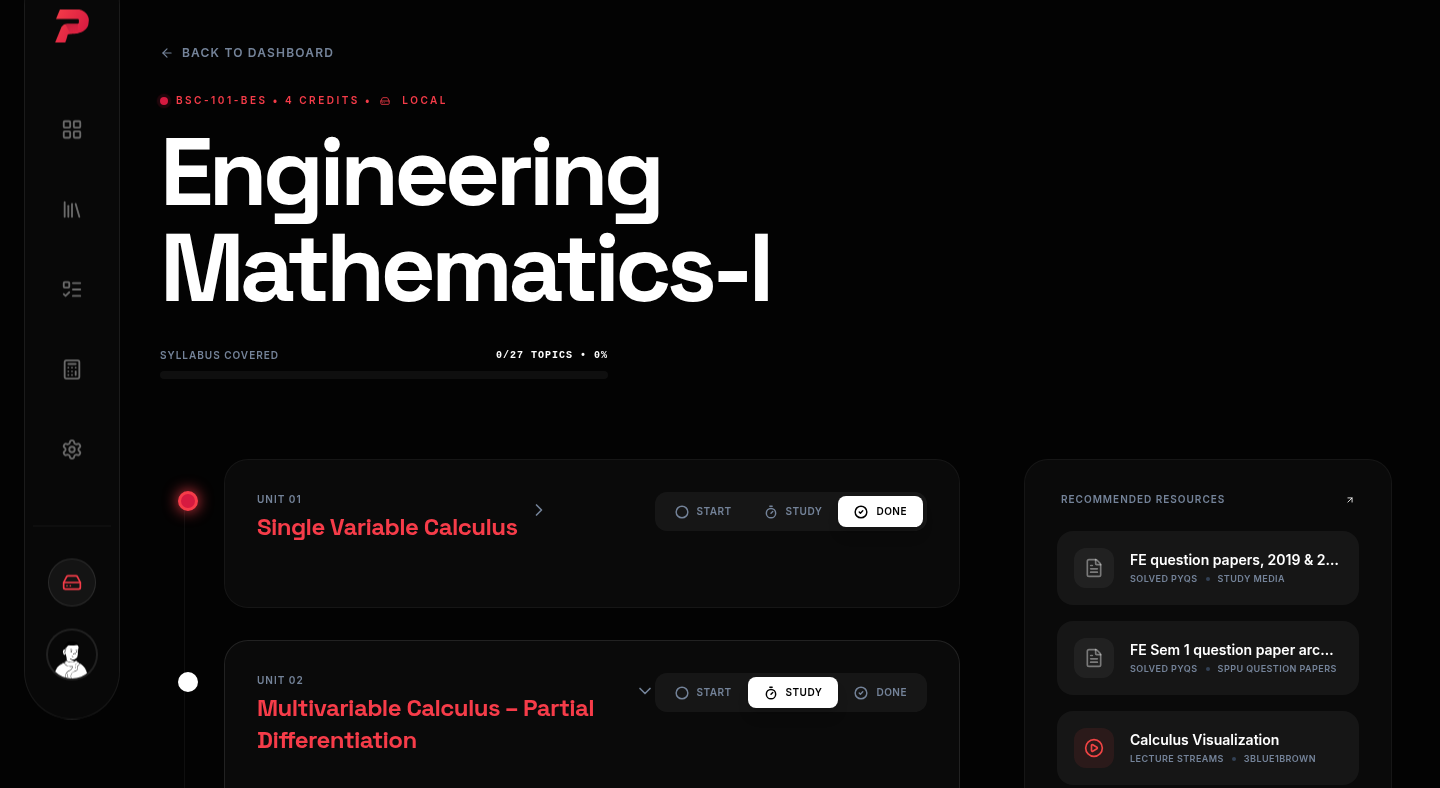
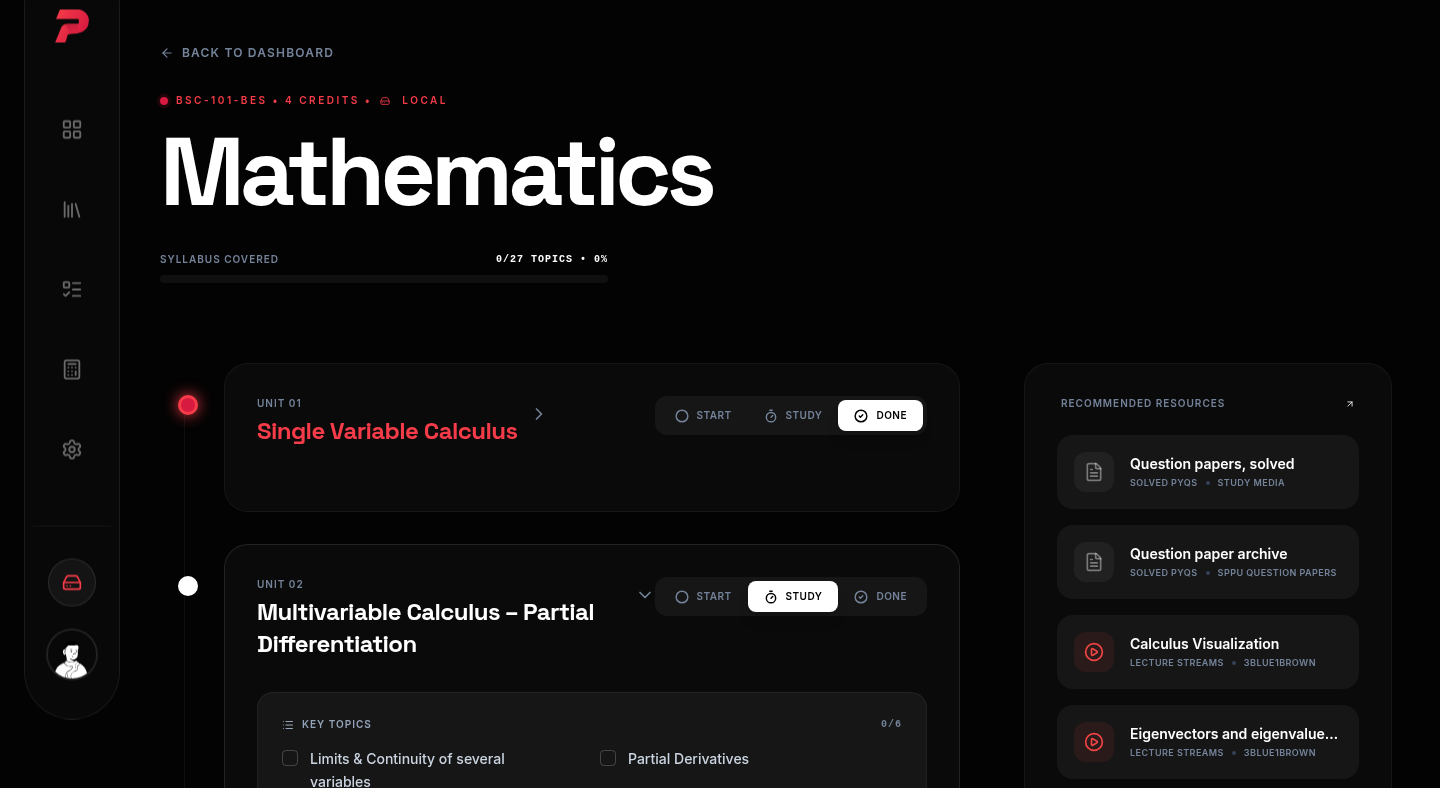
preview: sections 3-8 + neutral sample data (not for production)

diff --git a/preview/index.html b/preview/index.html
@@ -97,6 +97,103 @@
   .next{padding:90px 40px;text-align:center;font-family:var(--mono);font-size:11px;
     letter-spacing:.28em;text-transform:uppercase;color:var(--mut)}
 
+
+  /* ---------- section shell ---------- */
+  .sec{padding:96px 40px;max-width:1400px;margin:0 auto}
+  .eyebrow{font-family:var(--mono);font-size:11px;letter-spacing:.3em;text-transform:uppercase;
+    color:var(--red);margin-bottom:20px;display:flex;align-items:center;gap:10px}
+  .eyebrow::before{content:'';width:26px;height:1px;background:var(--red)}
+  h2{font-weight:700;letter-spacing:-.035em;line-height:1.02;font-size:clamp(34px,4.4vw,68px)}
+  h2 em{font-style:normal;color:var(--red)}
+  .lead{margin-top:18px;font-size:16.5px;line-height:1.7;color:var(--mut);max-width:520px}
+  .reveal{opacity:0;transform:translateY(34px);transition:opacity .8s ease,transform .8s cubic-bezier(.22,1,.36,1)}
+  .reveal.in{opacity:1;transform:none}
+
+  /* ---------- 4. PROBLEM (ayzz Ep.07: visual-led) ---------- */
+  .problem{position:relative}
+  .docs{position:relative;margin-top:48px;height:400px}
+  .doc{position:absolute;background:#fff;border:1px solid var(--hair);border-radius:10px;
+    box-shadow:0 24px 60px -28px rgba(20,20,25,.35);padding:22px 24px;width:min(420px,72vw)}
+  .doc .fname{font-family:var(--mono);font-size:10.5px;letter-spacing:.12em;color:var(--mut);
+    display:flex;align-items:center;gap:8px;margin-bottom:16px}
+  .doc .fname svg{width:13px;height:13px;flex-shrink:0}
+  .barl{height:8px;border-radius:4px;background:rgba(20,20,25,.10);margin-bottom:9px}
+  .barl.short{width:58%}.barl.mid{width:82%}.barl.red{background:rgba(214,26,64,.28)}
+  .doc1{left:4%;top:26px;transform:rotate(-4deg)}
+  .doc2{left:31%;top:88px;transform:rotate(2.5deg);z-index:2}
+  .doc3{right:5%;top:14px;transform:rotate(-1.5deg)}
+  .scribble{position:absolute;z-index:3;left:50%;top:8px;transform:translateX(-58%) rotate(-3deg);
+    font-family:var(--sat);font-weight:700;font-style:italic;font-size:clamp(20px,2.4vw,30px);
+    color:var(--red);white-space:nowrap}
+  .scribble svg{display:block;margin:2px auto 0;width:180px;height:14px}
+
+  /* ---------- 5. FEATURES (shown, not told) ---------- */
+  .feat{border-top:1px solid var(--hair)}
+  .feat-row{display:flex;align-items:center;gap:64px;padding:84px 0;border-bottom:1px solid var(--hair)}
+  .feat-row:last-child{border-bottom:0}
+  .feat-row.flip{flex-direction:row-reverse}
+  .feat-copy{flex:0 0 380px}
+  .feat-num{font-family:var(--grot);font-weight:700;font-size:15px;color:var(--red);letter-spacing:.06em}
+  .feat-copy h3{font-weight:700;letter-spacing:-.03em;line-height:1.06;font-size:clamp(26px,2.6vw,40px);margin-top:12px}
+  .feat-copy p{margin-top:14px;font-size:15.5px;line-height:1.7;color:var(--mut)}
+  .feat-shot{flex:1;border-radius:14px;overflow:hidden;background:#0B0B0E;
+    border:1px solid rgba(20,20,25,.18);box-shadow:0 30px 80px -36px rgba(20,20,25,.5)}
+  .feat-shot img{display:block;width:100%}
+
+  /* ---------- 6. HOW IT WORKS ---------- */
+  .hiw{border-top:1px solid var(--hair)}
+  .steps{display:grid;grid-template-columns:repeat(3,1fr);gap:26px;margin-top:56px}
+  .step{background:#fff;border:1px solid var(--hair);border-radius:18px;padding:34px 30px 38px;position:relative}
+  .step .n{font-family:var(--grot);font-weight:700;font-size:64px;letter-spacing:-.04em;line-height:1;color:var(--ink)}
+  .step .n i{font-style:normal;color:var(--red)}
+  .step h4{font-family:var(--sat);font-weight:700;font-size:19px;margin-top:20px;letter-spacing:-.01em}
+  .step p{margin-top:10px;font-size:14.5px;line-height:1.65;color:var(--mut)}
+  .step::after{content:'';position:absolute;top:52px;right:-26px;width:26px;height:1px;background:var(--hair)}
+  .step:last-child::after{display:none}
+
+  /* ---------- 7. SECONDARY CTA ---------- */
+  .cta-band{background:var(--ink);color:var(--paper);border-radius:24px;
+    padding:72px 56px;display:flex;align-items:center;justify-content:space-between;gap:40px;
+    position:relative;overflow:hidden}
+  .cta-band::before{content:'';position:absolute;width:520px;height:520px;border-radius:50%;
+    background:rgba(246,60,73,.16);filter:blur(110px);top:-260px;right:-120px;pointer-events:none}
+  .cta-band h2{color:var(--paper)}
+  .cta-band .fud{color:rgba(247,245,242,.55)}
+  .cta-band .cta-main{flex-shrink:0}
+
+  /* ---------- 8. FINAL CTA + FOOTER (footer.design: Northeast Tomato) ---------- */
+  .final{padding:40px 40px 0;max-width:1400px;margin:0 auto}
+  .final-panel{background:var(--red);border-radius:28px;color:#fff;text-align:center;
+    padding:110px 40px 100px;position:relative;overflow:hidden}
+  .final-panel h2{color:#fff;font-size:clamp(40px,5.4vw,84px)}
+  .final-panel .subf{margin:22px auto 0;font-size:16px;line-height:1.7;color:rgba(255,255,255,.75);max-width:440px}
+  .cta-white{display:inline-flex;align-items:center;gap:12px;background:#fff;color:var(--ink);
+    text-decoration:none;font-family:var(--sat);font-weight:700;font-size:17px;padding:19px 36px;
+    border-radius:999px;margin-top:38px;transition:transform .22s ease}
+  .cta-white:hover{transform:translateY(-2px)}
+  .cta-white svg{width:16px;height:16px}
+  .final-panel .fud{color:rgba(255,255,255,.6);margin-top:16px}
+  footer{padding:64px 40px 44px;max-width:1400px;margin:0 auto;
+    display:flex;align-items:flex-end;justify-content:space-between;gap:30px;flex-wrap:wrap}
+  .foot-brand{display:flex;align-items:center;gap:12px}
+  .foot-brand svg{width:30px;height:30px}
+  .foot-brand b{font-family:var(--sat);font-weight:700;font-size:24px;letter-spacing:-.015em}
+  .foot-links{display:flex;gap:26px}
+  .foot-note{font-family:var(--mono);font-size:10px;letter-spacing:.2em;text-transform:uppercase;color:var(--mut)}
+
+  @media(max-width:900px){
+    .sec{padding:80px 20px}
+    .feat-row,.feat-row.flip{flex-direction:column;gap:30px;padding:56px 0}
+    .feat-copy{flex:none}
+    .steps{grid-template-columns:1fr}
+    .step::after{display:none}
+    .cta-band{flex-direction:column;align-items:flex-start;padding:52px 28px}
+    .final{padding:24px 20px 0}
+    footer{padding:48px 20px 36px}
+    .docs{height:520px}
+    .doc1{left:0}.doc2{left:12%}.doc3{right:0}
+  }
+
   @media(max-width:900px){
     nav{padding:14px 20px}
     .nav-link{display:none}
@@ -129,7 +226,6 @@
 <section class="hero" aria-label="Hero">
   <div class="copyband">
     <div class="copy-left">
-      <p class="kicker">For SPPU engineering students</p>
       <h1 aria-label="Know exactly what's left before your exam.">
         <span class="mask" aria-hidden="true"><span class="line">Know exactly</span></span>
         <span class="mask" aria-hidden="true"><span class="line">what&rsquo;s <em>left.</em></span></span>
@@ -175,7 +271,133 @@
   <span>SGPA calculator</span>
   <span>Works offline</span>
 </section>
-<section class="next"><p>Concept sample &mdash; hero only.</p></section>
+
+<!-- 4. PROBLEM - ayzz Ep.07: visual-led problem -->
+<section class="sec problem" aria-label="The problem">
+  <p class="eyebrow reveal">The problem</p>
+  <h2 class="reveal">The syllabus is a pile of PDFs.<br>The exam date <em>doesn&rsquo;t move.</em></h2>
+  <p class="lead reveal">So you reread the same unit twice, guess what&rsquo;s important, and find out what you skipped &mdash; in the exam hall.</p>
+  <div class="docs reveal" aria-hidden="true">
+    <div class="scribble">where do I even start?
+      <svg viewBox="0 0 180 14" fill="none"><path d="M3 10 C 40 3, 90 12, 177 6" stroke="#D61A40" stroke-width="2.4" stroke-linecap="round"/></svg>
+    </div>
+    <div class="doc doc1">
+      <p class="fname"><svg viewBox="0 0 24 24" fill="none" stroke="#5A5A66" stroke-width="2"><path d="M6 2h9l5 5v15H6z"/><path d="M14 2v6h6"/></svg> unit3_notes_FINAL.pdf</p>
+      <div class="barl mid"></div><div class="barl"></div><div class="barl short"></div><div class="barl mid"></div><div class="barl"></div><div class="barl short"></div>
+    </div>
+    <div class="doc doc2">
+      <p class="fname"><svg viewBox="0 0 24 24" fill="none" stroke="#5A5A66" stroke-width="2"><path d="M6 2h9l5 5v15H6z"/><path d="M14 2v6h6"/></svg> syllabus.pdf</p>
+      <div class="barl"></div><div class="barl mid"></div><div class="barl red mid"></div><div class="barl short"></div><div class="barl"></div><div class="barl mid"></div><div class="barl short"></div>
+    </div>
+    <div class="doc doc3">
+      <p class="fname"><svg viewBox="0 0 24 24" fill="none" stroke="#5A5A66" stroke-width="2"><path d="M6 2h9l5 5v15H6z"/><path d="M14 2v6h6"/></svg> imp_questions_maybes.pdf</p>
+      <div class="barl mid"></div><div class="barl short"></div><div class="barl"></div><div class="barl mid"></div><div class="barl short"></div>
+    </div>
+  </div>
+</section>
+
+<!-- 5. FEATURE SHOWCASE - ayzz Ep.07: shown not told; ThrillX: headlines for scanners -->
+<section class="sec feat" aria-label="Features">
+  <p class="eyebrow reveal">The fix</p>
+  <h2 class="reveal">Everything the syllabus hides, <em>laid out.</em></h2>
+
+  <div class="feat-row reveal">
+    <div class="feat-copy">
+      <p class="feat-num">01</p>
+      <h3>Your whole exam, on one screen</h3>
+      <p>Progress across every subject, the days left, and today&rsquo;s streak &mdash; the numbers you used to guess, counted for you.</p>
+    </div>
+    <div class="feat-shot"><img src="full-dash.png" alt="The PrepTracker dashboard with progress, days to exam and streak."></div>
+  </div>
+
+  <div class="feat-row flip reveal">
+    <div class="feat-copy">
+      <p class="feat-num">02</p>
+      <h3>Every unit, every topic, one tick at a time</h3>
+      <p>Each subject broken into its real units and topics. Tick them off as you study and watch the unit flip to mastered.</p>
+    </div>
+    <div class="feat-shot"><img src="full-subject.png" alt="A subject broken into units and topics with progress."></div>
+  </div>
+
+  <div class="feat-row reveal">
+    <div class="feat-copy">
+      <p class="feat-num">03</p>
+      <h3>Wake up to today&rsquo;s list</h3>
+      <p>No planning session every morning. Open the app and the day&rsquo;s tasks are already there, sized to the days left.</p>
+    </div>
+    <div class="feat-shot"><img src="full-tasks.png" alt="The tasks view with today's study tasks."></div>
+  </div>
+
+  <div class="feat-row flip reveal">
+    <div class="feat-copy">
+      <p class="feat-num">04</p>
+      <h3>Question papers where you study</h3>
+      <p>Previous-year papers and resources sit next to the units they belong to &mdash; not in a drive folder you never open.</p>
+    </div>
+    <div class="feat-shot"><img src="full-library.png" alt="The library of previous-year question papers."></div>
+  </div>
+</section>
+
+<!-- 6. HOW IT WORKS - ayzz Perfect Structure: 3 steps -->
+<section class="sec hiw" aria-label="How it works">
+  <p class="eyebrow reveal">How it works</p>
+  <h2 class="reveal">Set up once. <em>Tracked every day.</em></h2>
+  <div class="steps">
+    <div class="step reveal">
+      <p class="n">01<i>.</i></p>
+      <h4>Pick your subjects</h4>
+      <p>Your branch&rsquo;s subjects are already in the app, each with its real units and topics. Select yours and you&rsquo;re done.</p>
+    </div>
+    <div class="step reveal">
+      <p class="n">02<i>.</i></p>
+      <h4>Tick topics as you study</h4>
+      <p>Finished a topic? Tick it. That one habit is the entire system &mdash; the app does every calculation after that.</p>
+    </div>
+    <div class="step reveal">
+      <p class="n">03<i>.</i></p>
+      <h4>See what&rsquo;s left, every morning</h4>
+      <p>Progress, streaks and the countdown update themselves. You always know exactly what&rsquo;s left before the exam.</p>
+    </div>
+  </div>
+</section>
+
+<!-- 7. SECONDARY CTA - cta.gallery mid-page band -->
+<section class="sec" aria-label="Start tracking">
+  <div class="cta-band reveal">
+    <div>
+      <h2>Your syllabus won&rsquo;t <em>track itself.</em></h2>
+      <p class="fud" style="margin-top:14px">Free &middot; No account &middot; Data stays in your browser</p>
+    </div>
+    <a class="cta-main" href="#">Start tracking
+      <svg viewBox="0 0 16 16" fill="none" aria-hidden="true"><path d="M2 8h11M9 3.5 13.5 8 9 12.5" stroke="#fff" stroke-width="1.8" stroke-linecap="round" stroke-linejoin="round"/></svg>
+    </a>
+  </div>
+</section>
+
+<!-- 8. FINAL CTA + FOOTER - footer.design: Northeast Tomato (giant red panel + utility row) -->
+<section class="final" aria-label="Final call to action">
+  <div class="final-panel reveal">
+    <h2>Walk in knowing<br>what&rsquo;s <em style="color:#fff;text-decoration:underline;text-underline-offset:10px;text-decoration-thickness:4px">left.</em></h2>
+    <p class="subf">Two minutes to set up. Then the app counts the days, the units and the topics &mdash; you just study.</p>
+    <a class="cta-white" href="#">Start tracking
+      <svg viewBox="0 0 16 16" fill="none" aria-hidden="true"><path d="M2 8h11M9 3.5 13.5 8 9 12.5" stroke="#D61A40" stroke-width="1.8" stroke-linecap="round" stroke-linejoin="round"/></svg>
+    </a>
+    <p class="fud">Free &middot; No account &middot; Data stays in your browser</p>
+  </div>
+</section>
+<footer>
+  <div class="foot-brand">
+    <svg viewBox="0 0 149 146" aria-hidden="true"><path class="mark2" fill="url(#lg2)" d=""/><defs><linearGradient id="lg2" x1="0" y1="0" x2="1" y2="1"><stop offset="0" stop-color="#F63C49"/><stop offset="1" stop-color="#D61A40"/></linearGradient></defs></svg>
+    <b>PrepTracker</b>
+  </div>
+  <div class="foot-links">
+    <a class="nav-link" href="#">How it works</a>
+    <a class="nav-link" href="#">Features</a>
+    <a class="nav-link" href="#">Start tracking</a>
+  </div>
+  <p class="foot-note">Built by a student, for students</p>
+</footer>
+
 </main>
 
 <script>
@@ -189,6 +411,7 @@ function setOn(i){btns.forEach((b,j)=>{b.classList.toggle('on',i===j);b.setAttri
 btns.forEach((b,i)=>b.addEventListener('click',()=>setOn(i)));
 addEventListener('resize',()=>moveThumb(sw.querySelector('button.on')));
 addEventListener('load',()=>moveThumb(btns[0]));
+document.querySelector('.mark2').setAttribute('d',document.getElementById('mark').getAttribute('d'));
 </script>
 <script src="gsap.min.js"></script>
 <script>
@@ -210,6 +433,9 @@ if(!reduced){
 }else{
   gsap.set(['.line','.kicker','.sub','.cta-main','.fud','.switcher','.window','.chip','.strip'],{clearProps:'all'});
 }
+// scroll reveals
+const io=new IntersectionObserver(es=>es.forEach(e=>{if(e.isIntersecting){e.target.classList.add('in');io.unobserve(e.target);}}),{threshold:.18});
+document.querySelectorAll('.reveal').forEach(el=>{if(reduced){el.classList.add('in')}else{io.observe(el)}});
 </script>
 </body>
 </html>
